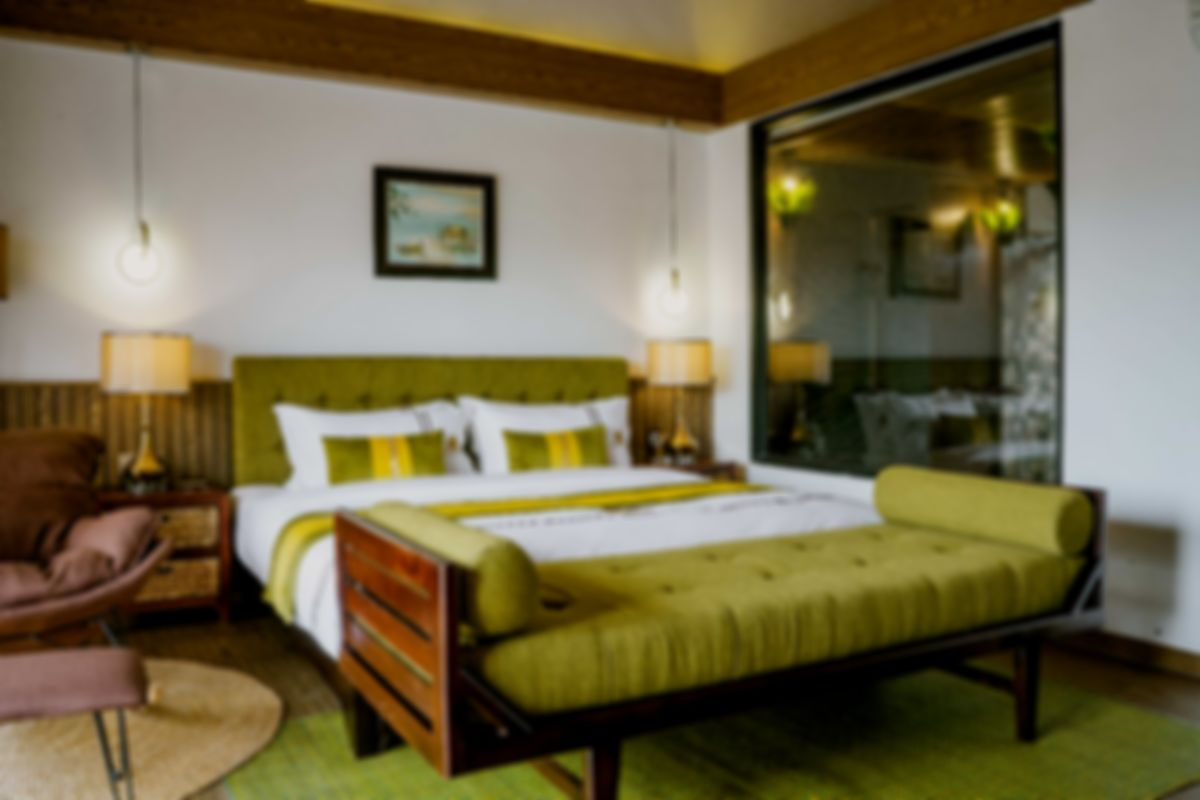
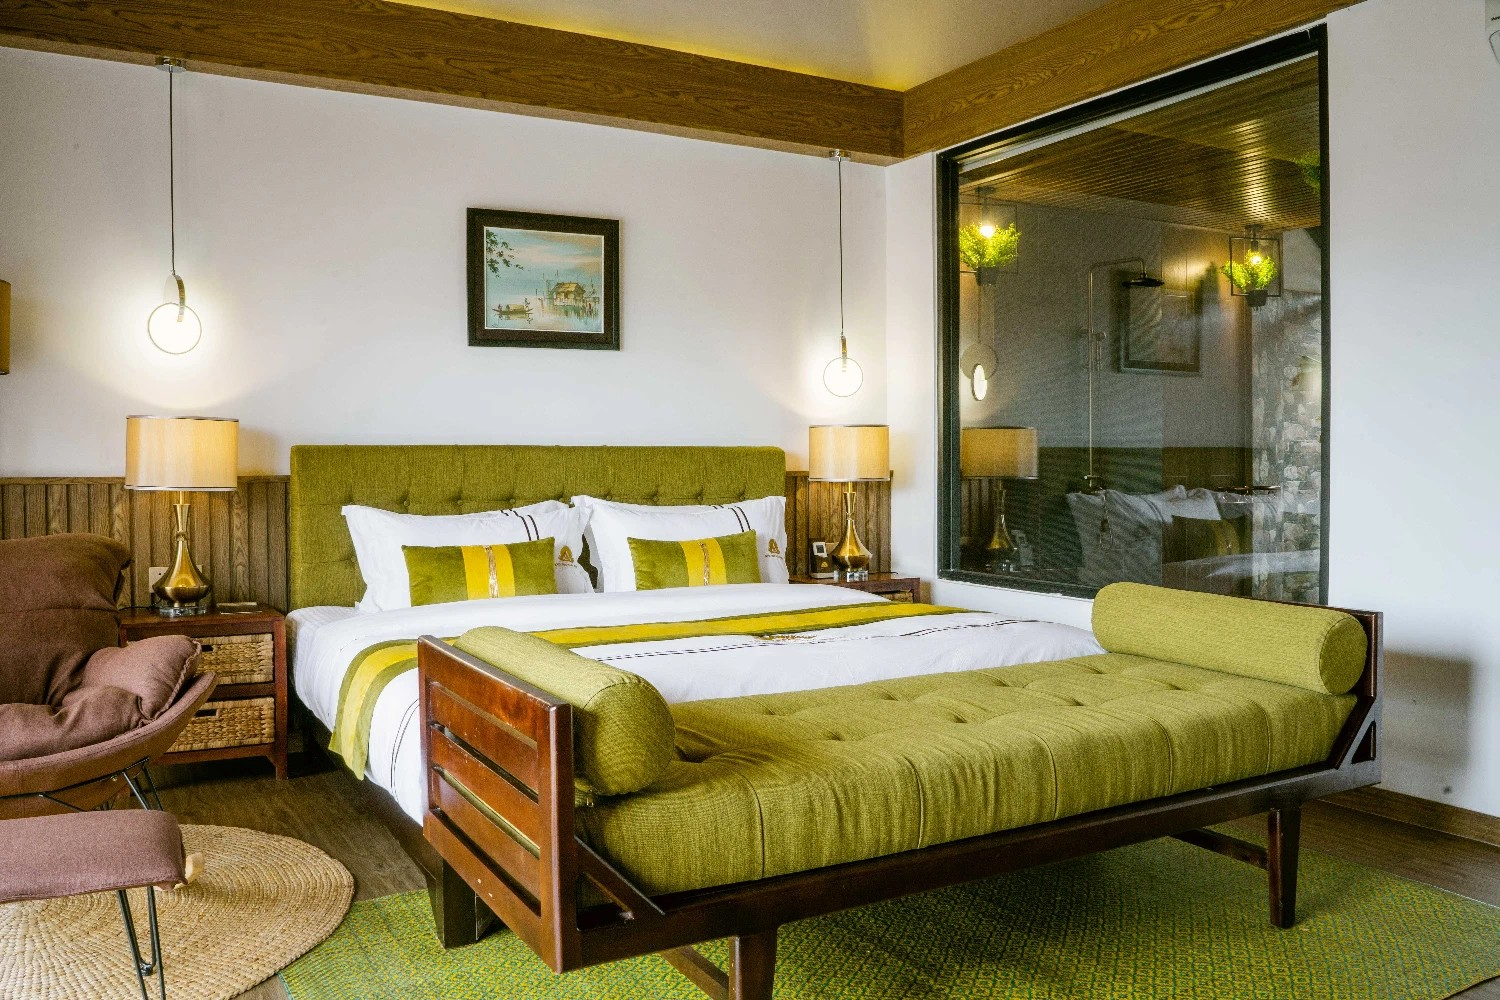
added redirect, fixed content img

diff --git a/styles/subpage.module.scss b/styles/subpage.module.scss
@@ -398,7 +398,7 @@
         }
         .sec_4 {
             background: #fcfcfc;
-            padding: 7.5%;
+            padding: 10rem;
             width: 100%;
             // border: 1px solid blue; //debug
             @media #{$mq-xsmall} {
@@ -438,6 +438,27 @@
                 }
             }
             
+        }
+        .sec_5 {
+            background: #fcfcfc;
+            padding: 10rem;
+            padding-top: 0;
+            width: 100%;
+            // border: 1px solid blue; //debug
+            @media #{$mq-xsmall} {
+                padding: 15% 5% 10% 5%;
+            }
+            .sec_5_heading_span {
+                display: flex; justify-content: center;
+                width: 100%;
+                h2 {
+                    font-size: 3.25rem;
+                    display: inline-block;
+                    // max-width: fit-content;
+                    text-align: center;
+                    margin-bottom: 2.5rem;
+                }
+            }
         }
     }
 }

diff --git a/pages/good-time-relax-resort.js b/pages/good-time-relax-resort.js
@@ -3,6 +3,7 @@ import Link from 'next/link'
 import GT_RR_Tabs from '../components/gt-rr-tabs'
 import Zoom from 'react-medium-image-zoom'
 import Layout from '../components/layout'
+import GT_RR_Maps from '../components/gt-rr-map'
 
 import { bungalowsContent } from '../components/content/bungalowsContent'
 import { dormitoriesContent } from '../components/content/dormitoriesContent'
@@ -284,6 +285,12 @@ export default function GoodTimeRelaxResort() {
                             </div>
                         </div>
                     </div>
+                </section>
+                <section className={styles.sec_5}>
+                    <span className={styles.sec_5_heading_span}>
+                        <h2>Contact Us</h2>
+                    </span>
+                    <GT_RR_Maps />
                 </section>
             </div>
         </div>

diff --git a/components/content/bungalowsContent.js b/components/content/bungalowsContent.js
@@ -2,7 +2,7 @@ export const bungalowsContent = [
     {
         name: "Sweet Bungalow",
         desc: "Provides excellent quality of relaxation with a front balcony attached to the natural Kampot River and a large balcony at the back viewing the lake, the poolside as well as the nicest sunset of Bokor Mountain while ultimately ensuring a high quality of sleep with fine amenities set up.",
-        bg: "images/gt-rr/sweet-bungalow/DSC08879_result.jpg",
+        bg: "images/gt-rr/sweet-bungalow/DSC08879-edit_result.jpg",
         photos: [
             {
                 src: 'images/gt-rr/sweet-bungalow/DSC08879_result.jpg',

diff --git a/next.config.js b/next.config.js
@@ -1,12 +1,21 @@
 module.exports = {
+  assetPrefix: './',
+  async redirects() {
+    return [
+      {
+        source: '/resort/good-time-relax-resort',
+        destination: '/good-time-relax-resort',
+        permanent: true,
+      },
+    ]
+  },
   // cssLoaderOptions: {
   //   url: false
   // },
   // reactStrictMode: true,
-  assetPrefix: './',
   // images: {
-  //   loader: 'imgix',
-  //   path: 'https://goodtimehospitality.com/',
-  //   domains: ['www.datocms-assets.com']
+    //   loader: 'imgix',
+    //   path: 'https://goodtimehospitality.com/',
+    //   domains: ['www.datocms-assets.com']
   // },
 }

diff --git a/components/gt-rr-map.js b/components/gt-rr-map.js
@@ -1,0 +1,13 @@
+export default function GT_RR_Maps() {
+
+    return (
+        <>
+        <iframe 
+        src="https://www.google.com/maps/embed?pb=!1m18!1m12!1m3!1d3921.1248227752267!2d104.17788831410422!3d10.647409864474987!2m3!1f0!2f0!3f0!3m2!1i1024!2i768!4f13.1!3m3!1m2!1s0x3108371d81c55d87%3A0x458812afee5399ab!2sGood%20Time%20Relax%20Resort!5e0!3m2!1sen!2skh!4v1644636298674!5m2!1sen!2skh"
+        width="600" height="450" 
+        style={{border: 0}} 
+        allowfullscreen="" 
+        loading="lazy"></iframe>        
+        </>
+    )
+}

diff --git a/styles/custom_react_tabs.module.scss b/styles/custom_react_tabs.module.scss
@@ -6,7 +6,7 @@ $tab_panel_bg_height: 65rem;
     // .react-tabs__tab--selected {
     //     border: 2px solid red; //debug
     // }
-    padding-bottom: calc($tab_panel_bg_height / 5.75);
+    padding-bottom: calc($tab_panel_bg_height / 8);
     // border: 1px solid red; //debug
     @media #{$mq-xxlarge} {
         max-width: 128rem;
